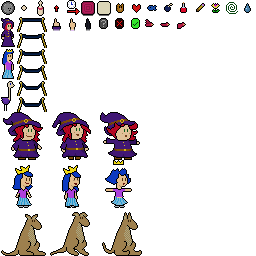
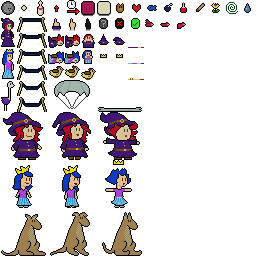
parachute contest

diff --git a/src/game/battle/battle_parachute.c b/src/game/battle/battle_parachute.c
@@ -1,0 +1,251 @@
+/* battle_parachute.c
+ */
+
+#include "game/batsup/battle_internal.h"
+
+#define GROUNDY 150
+
+struct battle_parachute {
+  struct battle hdr;
+  
+  struct player {
+    int who; // My index in this list.
+    int human; // 0 for CPU, or the input index.
+    double skill; // 0..1, reverse of each other.
+    uint32_t color;
+    uint8_t tileid;
+    uint8_t xform;
+    double animclock;
+    int animframe;
+    int blackout;
+    int x; // constant
+    double y;
+    double gravity;
+    double gravity_rate;
+    double gravity_limit;
+    int chuted;
+    int landed;
+    double openy;
+    double cpuchutey;
+  } playerv[2];
+};
+
+#define BATTLE ((struct battle_parachute*)battle)
+
+/* Delete.
+ */
+ 
+static void _parachute_del(struct battle *battle) {
+}
+
+/* Init player.
+ */
+ 
+static void player_init(struct battle *battle,struct player *player,int human,int face) {
+
+  player->x=140;
+  if (player==BATTLE->playerv) { // Left.
+    player->who=0;
+  } else { // Right.
+    player->who=1;
+    player->xform=EGG_XFORM_XREV;
+    player->x=FBW-player->x;
+  }
+  
+  player->gravity_rate=140.0*(1.0-player->skill)+80.0*player->skill;
+  player->gravity_limit=120.0*(1.0-player->skill)+90.0*player->skill;
+  if (player->who) player->gravity_limit+=1.0; // Keep them from being identical, even at balanced bias.
+  else player->gravity_rate+=1.0;
+  
+  if (player->human=human) { // Human.
+    player->blackout=1;
+  } else { // CPU.
+    if (!(rand()%5)) { // Throw it every so often, regardless of skill, to keep them on their toes. Can't just watch me and hit right after.
+      player->cpuchutey=GROUNDY+10.0;
+    } else {
+      player->cpuchutey=100.0*(1.0-player->skill)+140.0*player->skill;
+      player->cpuchutey+=(12.0*(rand()&0xffff)/65535.0)-6.0;
+    }
+  }
+  switch (face) {
+    case NS_face_monster: {
+        player->color=0xad1d11ff;
+        player->tileid=0x43;
+      } break;
+    case NS_face_dot: {
+        player->color=0x411775ff;
+        player->tileid=0x23;
+      } break;
+    case NS_face_princess: {
+        player->color=0x0d3ac1ff;
+        player->tileid=0x33;
+      } break;
+  }
+}
+
+/* New.
+ */
+ 
+static int _parachute_init(struct battle *battle) {
+  battle_normalize_bias(&BATTLE->playerv[0].skill,&BATTLE->playerv[1].skill,battle);
+  player_init(battle,BATTLE->playerv+0,battle->args.lctl,battle->args.lface);
+  player_init(battle,BATTLE->playerv+1,battle->args.rctl,battle->args.rface);
+  return 0;
+}
+
+/* Open my parachute.
+ */
+ 
+static void parachute_open(struct battle *battle,struct player *player) {
+  if (player->chuted||player->landed) return;
+  player->openy=player->y;
+  player->chuted=1;
+  player->gravity_limit=30.0;
+  bm_sound_pan(RID_sound_uiactivate,player->who?PLAYER_PAN:-PLAYER_PAN);
+}
+
+/* Update human player.
+ */
+ 
+static void player_update_man(struct battle *battle,struct player *player,double elapsed,int input) {
+  if (player->blackout) {
+    if (!(input&EGG_BTN_SOUTH)) player->blackout=0;
+  } else if (!player->chuted&&!player->landed) {
+    if (input&EGG_BTN_SOUTH) parachute_open(battle,player);
+  }
+}
+
+/* Update CPU player.
+ */
+ 
+static void player_update_cpu(struct battle *battle,struct player *player,double elapsed) {
+  if (player->y>=player->cpuchutey) parachute_open(battle,player);
+}
+
+/* Update all players, after specific controller.
+ */
+ 
+static void player_update_common(struct battle *battle,struct player *player,double elapsed) {
+  if (player->landed) return;
+  
+  player->y+=player->gravity*elapsed;
+  player->gravity+=player->gravity_rate*elapsed;
+  if (player->gravity>player->gravity_limit) player->gravity=player->gravity_limit;
+  if (player->y>=GROUNDY-4.0) {
+    player->y=GROUNDY-4.0;
+    player->landed=1;
+    if (player->chuted) {
+      bm_sound_pan(RID_sound_weebump,player->who?PLAYER_PAN:-PLAYER_PAN);
+    } else {
+      bm_sound_pan(RID_sound_splat,player->who?PLAYER_PAN:-PLAYER_PAN);
+    }
+  }
+  
+  if (!player->chuted&&!player->landed) {
+    if ((player->animclock-=elapsed)<=0.0) {
+      player->animclock+=0.100;
+      if (++(player->animframe)>=2) player->animframe=0;
+    }
+  }
+}
+
+/* Update.
+ */
+ 
+static void _parachute_update(struct battle *battle,double elapsed) {
+  if (battle->outcome>-2) return;
+  
+  struct player *player=BATTLE->playerv;
+  int i=2;
+  for (;i-->0;player++) {
+    if (player->human) player_update_man(battle,player,elapsed,g_input[player->human]);
+    else player_update_cpu(battle,player,elapsed);
+    player_update_common(battle,player,elapsed);
+  }
+  
+  /* Game is over when they've both landed.
+   */
+  struct player *l=BATTLE->playerv;
+  struct player *r=l+1;
+  if (l->landed&&r->landed) {
+    if (l->chuted&&r->chuted) { // Both landed safely. Whoever got there first wins.
+      if (l->openy>r->openy) battle->outcome=1;
+      else if (l->openy<r->openy) battle->outcome=-1;
+      else battle->outcome=0;
+    } else if (l->chuted) battle->outcome=1;
+    else if (r->chuted) battle->outcome=-1;
+    else battle->outcome=0; // double splat
+  }
+}
+
+/* Render player.
+ */
+ 
+static void player_render(struct battle *battle,struct player *player) {
+
+  // Line in the middle showing where I opened.
+  if (player->chuted) {
+    graf_set_input(g_graf,0);
+    int ax,bx;
+    if (player->who) {
+      ax=FBW>>1;
+      bx=ax+8;
+    } else {
+      bx=FBW>>1;
+      ax=bx-8;
+    }
+    int y=(int)player->openy;
+    graf_line(g_graf,ax,y,player->color,bx,y,player->color);
+    graf_set_image(g_graf,RID_image_battle_desert);
+  }
+
+  int x=(int)player->x;
+  int y=(int)player->y-3;
+  uint8_t tileid=player->tileid;
+  if (player->chuted) {
+    int csx=NS_sys_tilesize*3;
+    int csy=NS_sys_tilesize*5;
+    if (player->landed) csx+=NS_sys_tilesize*3;
+    graf_decal(g_graf,x-NS_sys_tilesize-(NS_sys_tilesize>>1),y-NS_sys_tilesize-(NS_sys_tilesize>>1),csx,csy,NS_sys_tilesize*3,NS_sys_tilesize*2);
+    tileid+=2; // Whether landed or not.
+  } else if (player->landed) {
+    tileid+=5;
+  } else {
+    tileid+=player->animframe;
+  }
+  graf_tile(g_graf,x,y,tileid,player->xform);
+}
+
+/* Render.
+ */
+ 
+static void _parachute_render(struct battle *battle) {
+  graf_fill_rect(g_graf,0,0,FBW,FBH,battle->ctab[BATTLE_COLOR_SKY]);
+  graf_fill_rect(g_graf,0,GROUNDY,FBW,FBH-GROUNDY,battle->ctab[BATTLE_COLOR_GROUND]);
+  graf_fill_rect(g_graf,0,GROUNDY,FBW,1,0x000000ff);
+  graf_set_image(g_graf,RID_image_battle_desert);
+  player_render(battle,BATTLE->playerv+0);
+  player_render(battle,BATTLE->playerv+1);
+}
+
+/* Type definition.
+ */
+ 
+const struct battle_type battle_type_parachute={
+  .name="parachute",
+  .objlen=sizeof(struct battle_parachute),
+  .id=116,
+  .strix_name=392,
+  .no_article=0,
+  .no_contest=0,
+  .no_timeout=0,
+  .support_pvp=1,
+  .support_cvc=1,
+  .update_during_report=0,
+  .input=battle_input_a,
+  .imageid_default=RID_image_desert,
+  .del=_parachute_del,
+  .init=_parachute_init,
+  .update=_parachute_update,
+  .render=_parachute_render,
+};

diff --git a/src/game/shared_symbols.h b/src/game/shared_symbols.h
@@ -575,6 +575,7 @@
 #define NS_battle_climbing 113
 #define NS_battle_swearing 114
 #define NS_battle_crossing 115
+#define NS_battle_parachute 116
 #define FOR_EACH_battle \
   _(fishing) \
   _(chopping) \
@@ -690,7 +691,8 @@
   _(karatechop) \
   _(climbing) \
   _(swearing) \
-  _(crossing)
+  _(crossing) \
+  _(parachute)
 
 /* "fld" are single bits.
  */

diff --git a/src/game/sprite/sprite_princess.c b/src/game/sprite/sprite_princess.c
@@ -209,6 +209,7 @@ static struct sprite *princess_spawn_kidnapper(struct sprite *sprite,const struc
     RID_sprite_toad,
     RID_sprite_joey,
     RID_sprite_frog,
+    RID_sprite_chicken,
   };
   int candidatec=sizeof(candidatev)/sizeof(int);
   int rid=candidatev[rand()%candidatec];

diff --git a/src/game/modal/modal_arcade.c b/src/game/modal/modal_arcade.c
@@ -8,7 +8,7 @@
 
 #include "game/bellacopia.h"
 
-#define PRESELECT_BATTLE NS_battle_crossing
+#define PRESELECT_BATTLE NS_battle_parachute
 
 #define ROWC 20 /* FBH / font height */
 #define KEY_REPEAT_INITIAL 0.250
